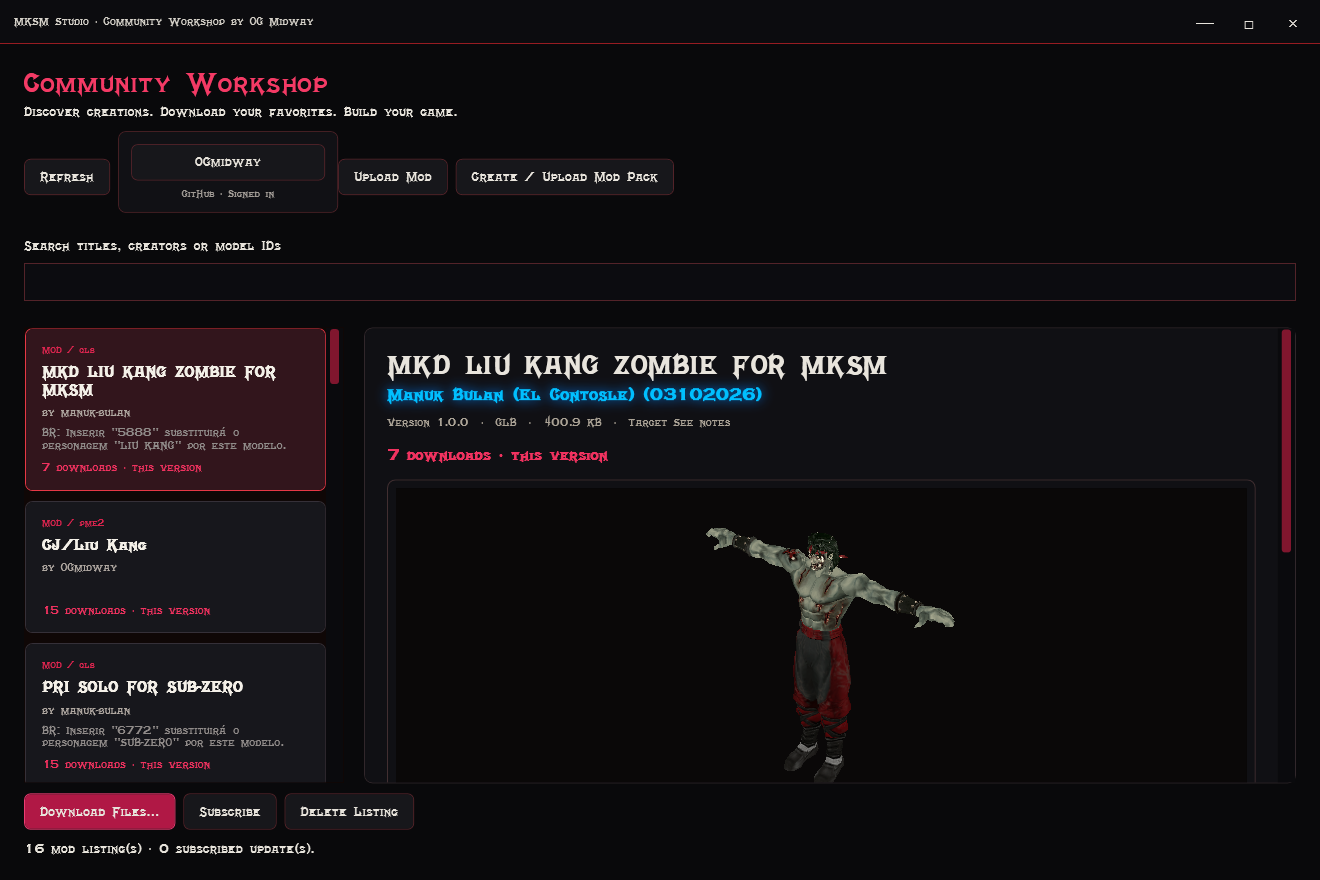
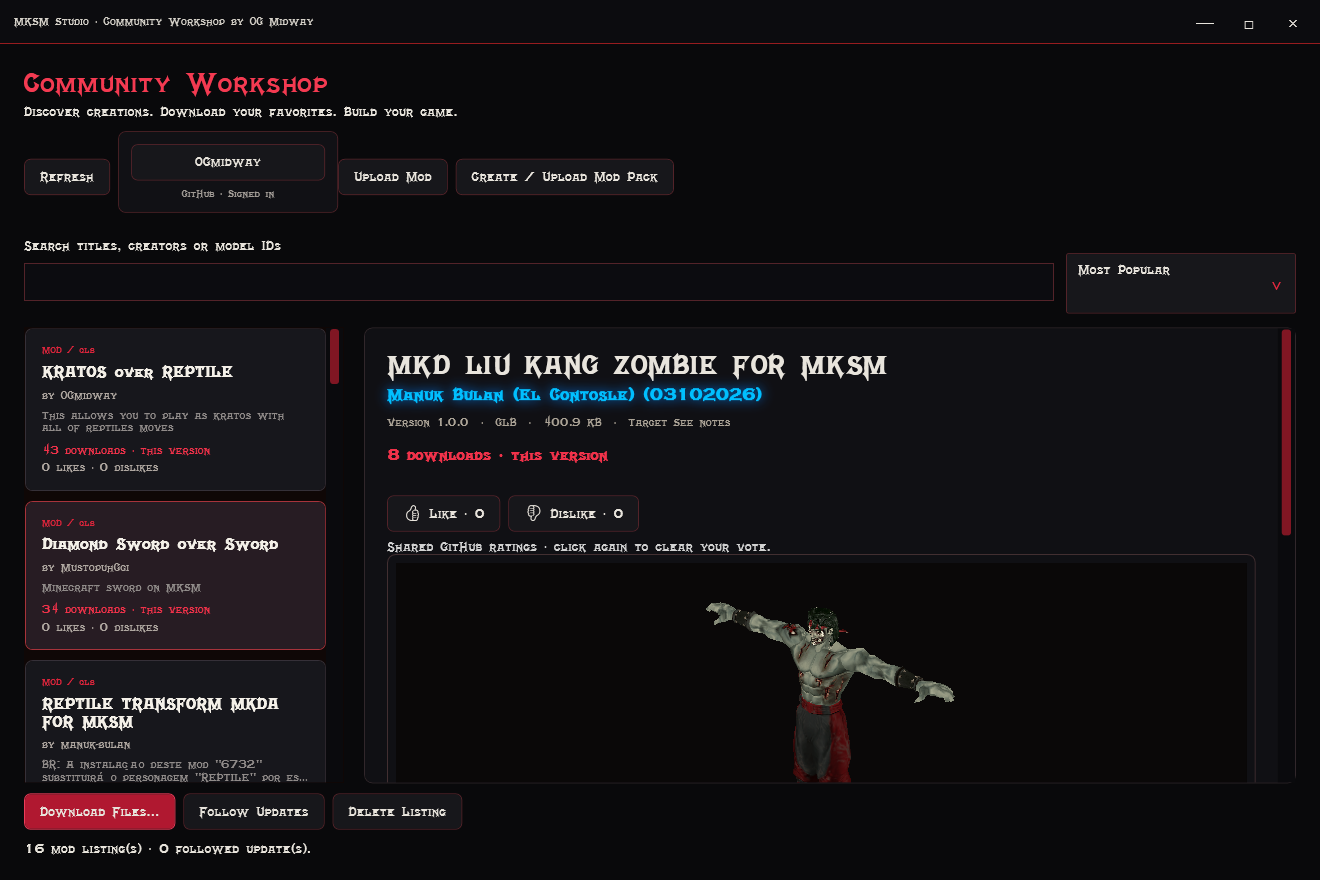
Publish Studio 0.27.9 UI polish and Workshop ratings

diff --git a/README.md b/README.md
@@ -24,11 +24,11 @@ You do not need to mount or unpack the ISO to begin. You do need your own game f
 
 This is an independent, experimental modding tool. The best-tested workflows use the researched **USA PS2 revision**. Support for one resource or revision does not establish support for every version of the game.
 
-## 2. Current release: 0.27.8
+## 2. Current release: 0.27.9
 
-Clean red-and-black interface, integrated title bar, GitHub avatar, refreshed Workshop browsing and grouped Settings. Sidebar **Patch Notes** shows the latest update; green dragon indicators pulse for unread notes or available updates. Owner announcements appear once and can be reopened from the sidebar. Select your interface font under **Settings → Appearance → Typography**. Save, then reopen Studio to apply it.
+Clean red-and-black interface, integrated title bar, GitHub avatar, refreshed Workshop browsing and grouped Settings. Sidebar **Patch Notes** shows the latest update; green dragon indicators pulse for unread notes or available updates. Owner announcements appear once and can be reopened from the sidebar. Select your interface font under **Settings → Appearance → Typography**. Save settings to apply it immediately.
 
-**Community Workshop:** browse character replacements, download their files, subscribe for version comparisons on refresh, and publish your own native character packages through GitHub. Creator uploads appear without an approval queue. OGmidway's authenticated owner account can remove any listing; other creators manage only their own. [Workshop guide](docs/COMMUNITY_WORKSHOP.md).
+**Community Workshop:** browse character replacements, download their files, follow updates for version comparisons on refresh, and publish your own native character packages through GitHub. Creator uploads appear without an approval queue. OGmidway's authenticated owner account can remove any listing; other creators manage only their own. [Workshop guide](docs/COMMUNITY_WORKSHOP.md).
 
 **Opening movie included:** the converted opening movie is bundled and starts on first launch. The default movie needs no ISO extraction or FFmpeg. Saved off/volume choices are preserved; selecting another movie previews it immediately.
 
@@ -46,7 +46,7 @@ Custom **SFD conversion requires FFmpeg**; MP4/WMV can be selected directly. The
 
 ### Existing Blender workflow (Bridge 0.25.2)
 
-**New to character swaps? [Start with the simple Blender guide](docs/CHARACTER_START_HERE.md).** [Blender Bridge 0.25.2](https://github.com/OGmidway/Mortal-Kombat-Shaolin-Monks-Modding-Tool/releases/download/v0.27.8/MKSM-Blender-Bridge-0.25.2.zip) adds **Set up game textures (keep more detail)**. Automatic mode uses multiple original slots; choose two or three atlases if you want fewer textures. Original weights stay unchanged, and textures used by kept native meshes are protected. Install the add-on separately; The application is now 0.27.8.
+**New to character swaps? [Start with the simple Blender guide](docs/CHARACTER_START_HERE.md).** [Blender Bridge 0.25.2](https://github.com/OGmidway/Mortal-Kombat-Shaolin-Monks-Modding-Tool/releases/download/v0.27.9/MKSM-Blender-Bridge-0.25.2.zip) adds **Set up game textures (keep more detail)**. Automatic mode uses multiple original slots; choose two or three atlases if you want fewer textures. Original weights stay unchanged, and textures used by kept native meshes are protected. Install the add-on separately; The application is now 0.27.9.
 
 **New in Bridge 0.25.1:** optional **Clean weights on export**, plus **Preview cleaned weights on a copy** and a weight-change report. This handles triangles that touch more than three bones after topology changes. Originals stay untouched. A per-vertex removal limit prevents unexpectedly large changes; default 25%. This does not fix or bypass game memory limits. [Cleanup steps](docs/CHARACTER_START_HERE.md#reduced-polygons-or-changed-geometry).
 
@@ -151,4 +151,4 @@ Share multiple replacements in one download and apply them together before rebui
 
 Particle animation: **Settings → Appearance → Particle Frame Rate** supports Off, 15, 30 and 60 FPS (default 60). Movie playback uses its own frame rate and remains independent.
 
-Studio 0.27.8 uses crimson/pink accents and a red-and-black dragon icon. Workshop cards and details show the current version’s file-download count from GitHub; counts include uncached preview fetches and direct downloads, not unique people. Background video, audio and particle options remain available.
+Studio 0.27.9 uses redder crimson accents, white Home instructions, a matching author glow, and a crimson dragon EXE icon. Optional torn MKSM sidebar banner and moving fog join the existing video, audio and particle effects. Bundled fonts load from the EXE; changes apply on Save. Workshop offers shared Like/Dislike ratings, Most Popular sorting and previews that let the mouse wheel scroll the page without zooming.

diff --git a/CHANGELOG.md b/CHANGELOG.md
@@ -1,3 +1,19 @@
+# MKSM Studio 0.27.9 — Crimson Polish & Workshop Ratings
+
+- Redder crimson throughout Studio, Workshop and dialogs; matching OG Midway text and glow. Ordinary Home instructions and section labels are neutral white. Card numbers 01 / 02 / 03 remain crimson.
+- MK4 and all 14 bundled font choices resolve from the EXE's own WPF resources using the correct family aliases. Font changes apply when settings are saved.
+- The actual Windows executable includes the crimson dragon icon at seven sizes. Successful public/source replacements notify Explorer about that file's changed icon.
+- A torn vertical MKSM banner gently waves behind the sidebar, with moving fog at the bottom. Banner and fog have separate switches; Animate Background Effects and the refresh-rate setting control motion.
+- Workshop model portraits keep rotation and Shift-drag panning. Mouse-wheel scrolling reads the page without changing camera zoom; full editor zoom is retained.
+- Workshop offers Most Popular, Most Downloaded, Recently Updated and My Uploads browsing. Most Popular ranks net likes, then likes, downloads and recent updates.
+- Shared Like / Dislike counts use GitHub reactions on each listing. Sign in to vote, switch your vote, or click the chosen thumb again to clear it. Your choice is restored from GitHub; only your own thumb reactions are changed. Feedback animation respects the motion setting.
+- Subscribe is now Follow Updates, with clear wording: it compares published file versions on Refresh and does not download files automatically.
+- Existing background movie/audio, particle effects, announcements, mod packs, owner permissions and separate signed public/source updates are retained.
+
+Validation covered font resolution, preview wheel behavior, rating changes and restoration, pagination, cancellation, unavailable ratings, animation lifecycle, packaged executable icons, signed packages and source replacement/rollback. No live mod ratings were changed during tests. Experimental game-memory patches and online-user counting are not included.
+
+---
+
 # MKSM Studio 0.27.8 — Crimson Interface & Workshop Downloads
 
 - Gold interface accents replaced with vibrant crimson and pink highlights. Open Game ISO now matches the theme; neutral text stays readable.

diff --git a/docs/PREVIOUS_BUILDS.md b/docs/PREVIOUS_BUILDS.md
@@ -2,7 +2,7 @@
 
 [Home](../README.md) · [Release notes](../CHANGELOG.md) · [Updates and recovery](UPDATES_AND_HELP.md) · [Roadmap](ROADMAP.md)
 
-**Current recommended version: [0.27.8](https://github.com/OGmidway/Mortal-Kombat-Shaolin-Monks-Modding-Tool/releases/tag/v0.27.8).** [Download latest](https://github.com/OGmidway/Mortal-Kombat-Shaolin-Monks-Modding-Tool/releases/latest).
+**Current recommended version: [0.27.9](https://github.com/OGmidway/Mortal-Kombat-Shaolin-Monks-Modding-Tool/releases/tag/v0.27.9).** [Download latest](https://github.com/OGmidway/Mortal-Kombat-Shaolin-Monks-Modding-Tool/releases/latest).
 
 This archive keeps superseded public builds easy to find. The downloads remain in their original GitHub releases; no application files or signatures are moved or rewritten. Start with the current version for normal use.
 
@@ -12,6 +12,7 @@ All rows below are previous builds, newest first. Dates are the original publica
 
 | Version / release notes | Published (UTC) | Main change | Windows download |
 |---|---|---|---|
+| [0.27.8](https://github.com/OGmidway/Mortal-Kombat-Shaolin-Monks-Modding-Tool/releases/tag/v0.27.8) | 2026-10-03 | See the linked release notes | [Windows ZIP](https://github.com/OGmidway/Mortal-Kombat-Shaolin-Monks-Modding-Tool/releases/download/v0.27.8/MKSM-Studio-0.27.8-win-x64.zip) |
 | [0.27.7](https://github.com/OGmidway/Mortal-Kombat-Shaolin-Monks-Modding-Tool/releases/tag/v0.27.7) | 2026-10-03 | See the linked release notes | [Windows ZIP](https://github.com/OGmidway/Mortal-Kombat-Shaolin-Monks-Modding-Tool/releases/download/v0.27.7/MKSM-Studio-0.27.7-win-x64.zip) |
 | [0.27.6](https://github.com/OGmidway/Mortal-Kombat-Shaolin-Monks-Modding-Tool/releases/tag/v0.27.6) | 2026-10-01 | See the linked release notes | [Windows ZIP](https://github.com/OGmidway/Mortal-Kombat-Shaolin-Monks-Modding-Tool/releases/download/v0.27.6/MKSM-Studio-0.27.6-win-x64.zip) |
 | [0.27.5](https://github.com/OGmidway/Mortal-Kombat-Shaolin-Monks-Modding-Tool/releases/tag/v0.27.5) | 2026-09-30 | See the linked release notes | [Windows ZIP](https://github.com/OGmidway/Mortal-Kombat-Shaolin-Monks-Modding-Tool/releases/download/v0.27.5/MKSM-Studio-0.27.5-win-x64.zip) |

diff --git a/docs/COMMUNITY_WORKSHOP.md b/docs/COMMUNITY_WORKSHOP.md
@@ -64,3 +64,13 @@ Use arrow keys to scroll message text, Enter or Space on Continue to dismiss, an
 Every mod card and detail page shows the main release file’s GitHub download count for its currently published version. Refresh reads release statistics in batches; results are cached for two minutes to reduce requests. Missing files, unavailable GitHub responses and rate limits show **Downloads unavailable** without blocking the listing or its download button.
 
 Counts include direct GitHub downloads and the first uncached file fetch used for a 3D preview. Copying a cached file again does not add a GitHub download. Cover images and companion textures are excluded. These are file-transfer totals, not unique people or lifetime totals across previous versions of a mod.
+
+## Browse and rate creations (Studio 0.27.9)
+
+Choose **Most Popular** to rank by likes minus dislikes, then likes, current-version downloads and latest update. **Most Downloaded**, **Recently Updated** and **My Uploads** are also available. Search combines with the selected ordering. Ratings belong to a listing, so they remain when its creator publishes a new file version; file-download totals still describe the current version.
+
+Sign in with GitHub, then use **Like** or **Dislike**. The tool saves your thumb reaction on the listing's GitHub issue and restores your choice when you return. Switching removes your previous thumb; clicking the selected thumb again clears your vote. Existing reactions from other accounts are not changed. GitHub also permits rating directly on the listing page. Counts and choices refresh when requested; unavailable GitHub responses never invent totals.
+
+**Follow Updates** (previously Subscribe) compares file versions when you refresh. It does not install or download anything automatically. Use **Download Files** when ready.
+
+Model portraits: drag to rotate; Shift-drag to pan. The mouse wheel scrolls the details page without zooming the model. Main Studio model editing retains full zoom controls.
